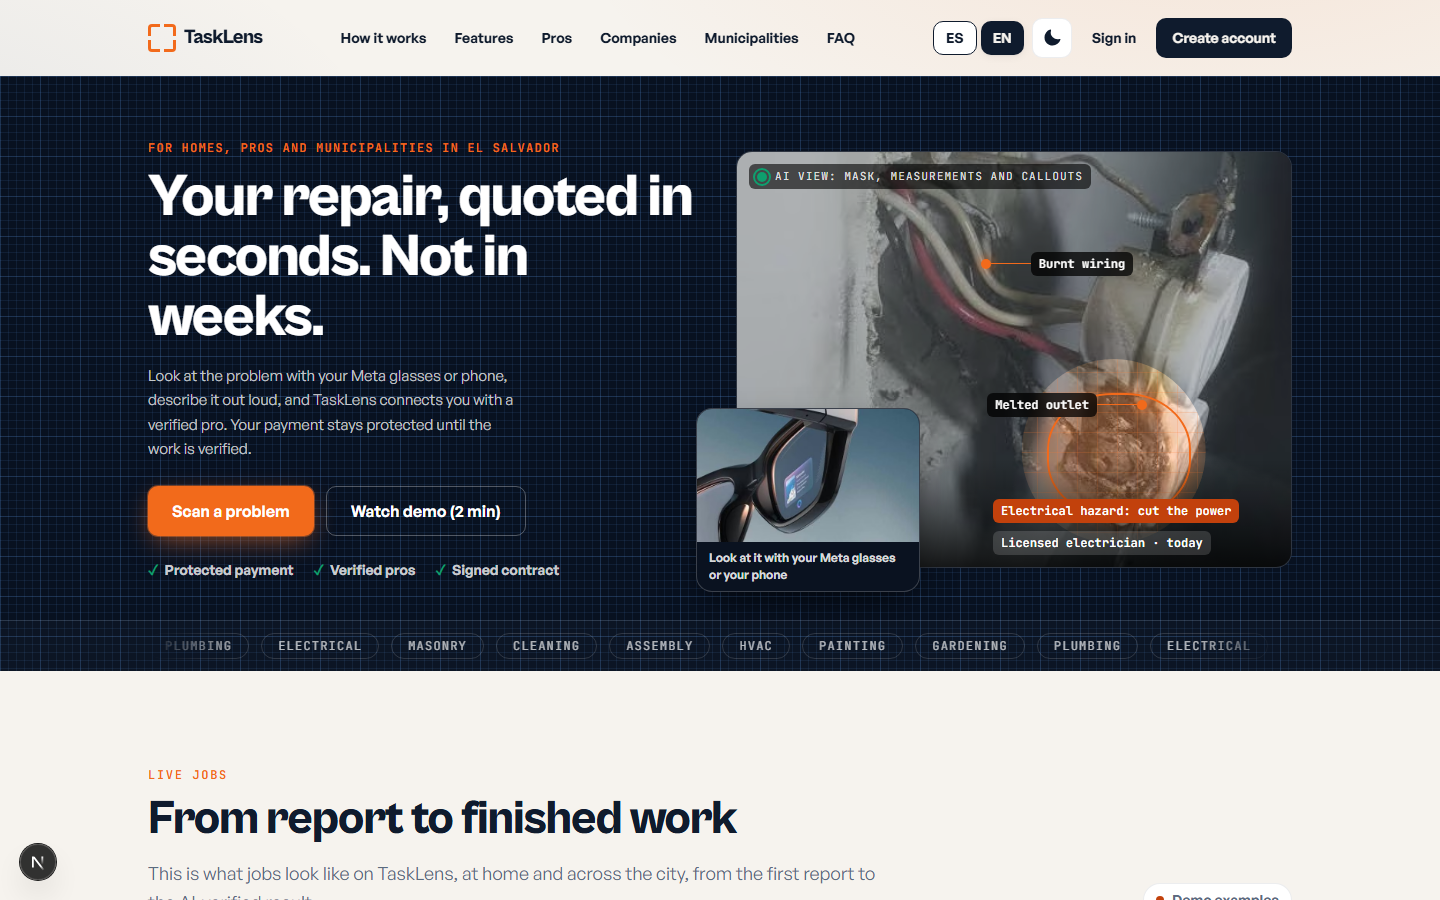
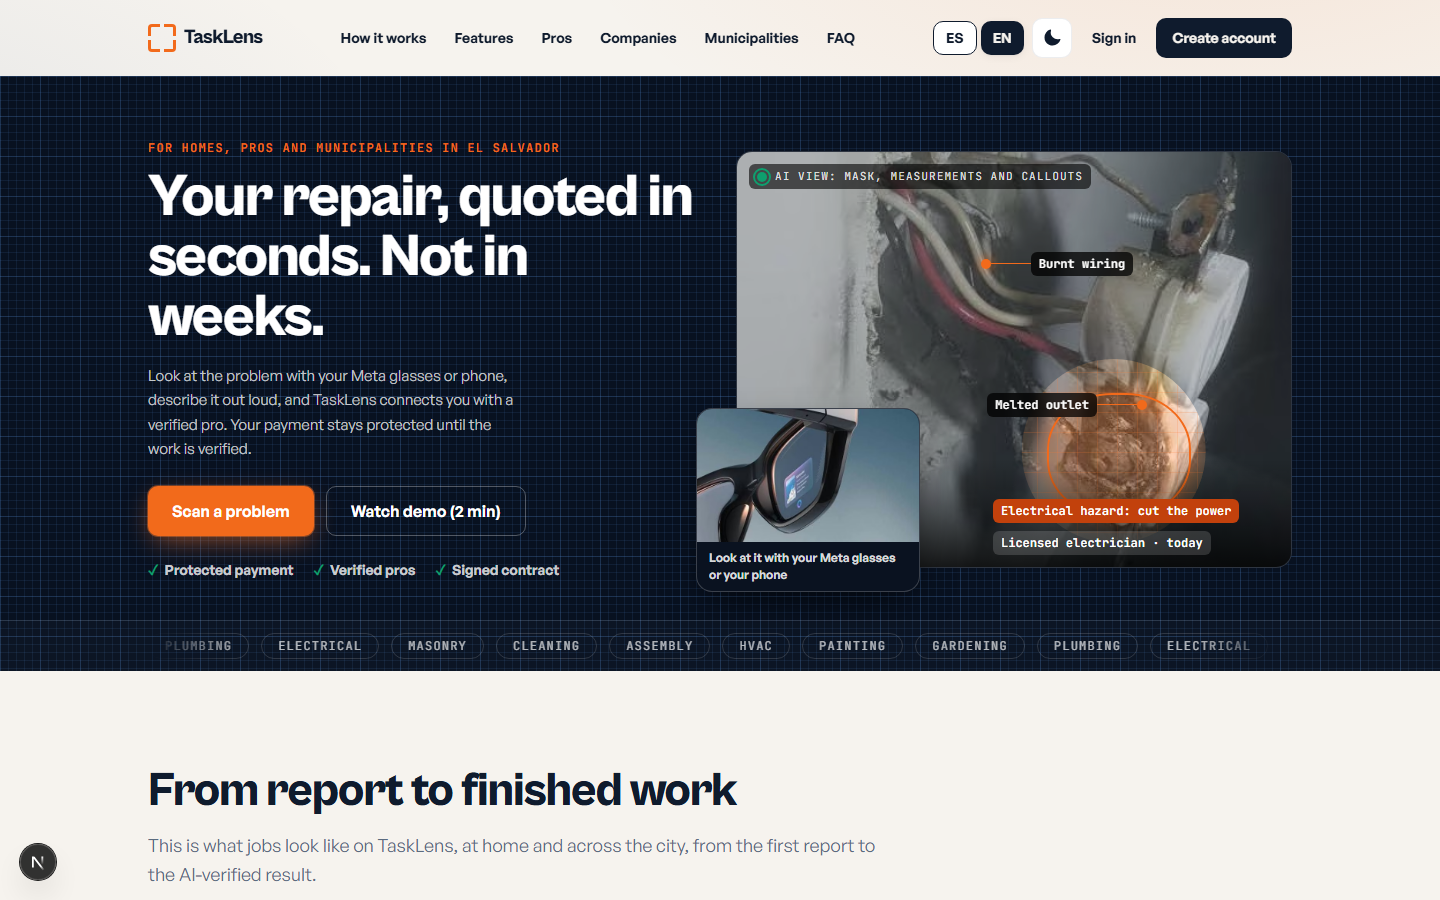
style(ui): declutter landing copy and rebuild race section as track diagram

Changed region(s): [[0.0938, 0.84, 0.5938, 1.0], [0.7812, 0.9956, 0.9062, 1.0]]

diff --git a/apps/web/components/landing/RaceSection.tsx b/apps/web/components/landing/RaceSection.tsx
@@ -83,31 +83,46 @@ function Timeline({ label, meta, steps, axis, barRef, tone, seal }: {
   tone: "muted" | "signal";
   seal?: React.ReactNode;
 }) {
-  const bar = tone === "signal" ? "bg-signal" : "bg-muted";
+  const bar = tone === "signal" ? "bg-gradient-to-r from-[#c24e08] via-[var(--signal)] to-[#ff8a3d]" : "bg-muted";
+  const isLens = tone === "signal";
   return (
-    <div className={`rounded-card border p-5 lg:p-6 ${tone === "signal" ? "border-signal bg-surface shadow-lifted" : "border-line bg-surface"}`}>
+    <div className={`relative overflow-hidden rounded-card border p-5 lg:p-6 ${isLens ? "border-signal bg-surface shadow-lifted" : "border-line bg-surface"}`}>
+      {isLens && <div aria-hidden="true" className="absolute inset-x-0 top-0 h-1 bg-gradient-to-r from-transparent via-[var(--signal)] to-transparent opacity-70" />}
       <div className="flex items-baseline justify-between gap-3">
-        <strong className="font-display text-lg font-bold">{label}</strong>
+        <strong className="flex items-center gap-2 font-display text-lg font-bold">
+          <span aria-hidden="true" className={`inline-block h-3 w-3 rounded-full ${isLens ? "bg-signal shadow-[0_0_12px_var(--signal)]" : "bg-muted"}`} />
+          {label}
+        </strong>
         <span className={`font-mono text-xs ${tone === "signal" ? "font-semibold text-signal" : "text-muted"}`}>{meta}</span>
       </div>
-      <div className="relative mt-5">
-        <div className="h-1.5 overflow-hidden rounded-full bg-ink/10">
-          <div ref={barRef} className={`h-full w-full origin-left ${bar}`} />
+      <div className="relative mt-6">
+        <div className="relative h-3 rounded-full bg-ink/10">
+          <div ref={barRef} className={`h-full w-full origin-left rounded-full ${bar}`} />
+          {isLens && <span aria-hidden="true" className="race-comet" />}
+          <span
+            aria-hidden="true"
+            className="absolute -top-1 bottom-[-4px] right-0 w-7 rounded-r-full"
+            style={{ backgroundImage: "repeating-conic-gradient(#0F1B2D 0% 25%, #fff 0% 50%)", backgroundSize: "10px 10px" }}
+          />
         </div>
         <ol className="relative mt-1 grid grid-cols-2 gap-x-4 gap-y-2 sm:flex sm:justify-between">
-          {steps.map((s) => (
+          {steps.map((s, i) => (
             <li key={s} className="flex max-w-[9rem] flex-col items-start gap-1.5 pt-3 text-left">
-              <span className={`h-2.5 w-2.5 rounded-full ring-4 ${tone === "signal" ? "bg-signal ring-signal/20" : "bg-muted ring-muted/15"}`} aria-hidden="true" />
+              <span
+                aria-hidden="true"
+                className={`absolute h-2.5 w-2.5 rounded-full ring-4 ${isLens ? "bg-white ring-[var(--signal)]" : "bg-muted ring-muted/15"}`}
+                style={{ left: `calc(${(i / Math.max(steps.length - 1, 1)) * 100}% - 5px)`, top: "0px" }}
+              />
               <span className="text-xs leading-snug text-muted">{s}</span>
             </li>
           ))}
         </ol>
         <div className="mt-3 flex justify-between font-mono text-[11px] uppercase tracking-widest text-muted" aria-hidden="true">
-          <span>{axis[0]}</span>
-          <span>{axis[1]}</span>
+          <span>▸ {axis[0]}</span>
+          <span>{axis[1]} ✓</span>
         </div>
       </div>
-      {seal && <div className="mt-4">{seal}</div>}
+      {seal && <div className="mt-4 flex justify-start">{seal}</div>}
     </div>
   );
 }

diff --git a/apps/web/components/landing/LiveJobs.tsx b/apps/web/components/landing/LiveJobs.tsx
@@ -106,7 +106,7 @@ function FeaturedDone({ lang }: { lang: Lang }) {
         <figcaption className="flex flex-col justify-center p-6 lg:p-8">
           <p className="inline-flex w-fit items-center gap-1.5 rounded-full bg-[var(--verified)]/10 px-3 py-1 text-xs font-bold text-[var(--verified)]">
             <CheckCircle weight="fill" aria-hidden="true" />
-            {c.demoLabel} · {STATUS_LABEL.done[lang]}
+            {STATUS_LABEL.done[lang]}
           </p>
           <p className="mt-3 font-display text-2xl font-extrabold leading-tight lg:text-3xl">{done.title[lang]}</p>
           <p className="mt-2 text-[15px] leading-relaxed text-muted">{c.lead}</p>
@@ -142,18 +142,13 @@ export default function LiveJobs({ lang }: { lang: Lang }) {
     <div>
       <div className="flex flex-col gap-6 lg:flex-row lg:items-end lg:justify-between">
         <div className="max-w-[46rem]">
-          <p className="font-mono text-xs font-semibold uppercase tracking-[0.14em] text-[var(--signal)]">{c.eyebrow}</p>
-          <h2 className="mt-3 font-display text-4xl font-extrabold leading-[1.05] tracking-tight lg:text-5xl">{c.title}</h2>
+          <h2 className="mt-0 font-display text-4xl font-extrabold leading-[1.05] tracking-tight lg:text-5xl">{c.title}</h2>
           <p className="mt-4 text-lg leading-relaxed text-muted">{c.lead}</p>
         </div>
-        <span className="inline-flex w-fit items-center gap-2 rounded-full border border-line bg-surface px-3 py-1.5 text-sm font-semibold text-muted">
-          <span className="h-2 w-2 rounded-full bg-[var(--warning)]" aria-hidden="true" />
-          {c.demoLabel}
-        </span>
       </div>
 
       <div className="mt-8 flex flex-wrap items-center gap-3">
-        <div className="inline-flex rounded-full border border-line bg-surface p-1" role="group" aria-label={c.eyebrow}>
+        <div className="inline-flex rounded-full border border-line bg-surface p-1" role="group" aria-label={c.title}>
           {(["all", "home", "municipal"] as const).map((s) => (
             <button
               key={s}

diff --git a/apps/web/app/globals.css b/apps/web/app/globals.css
@@ -159,6 +159,16 @@ textarea { width: 100%; border: 1px solid var(--line); border-radius: var(--radi
 .marquee-auto:hover .marquee-track { animation-play-state: paused; }
 @keyframes marqueeScroll { from { transform: translateX(0); } to { transform: translateX(-50%); } }
 
+/* Race comet: ambient glide along the TaskLens track (decorative pulse of speed). */
+.race-comet {
+  position: absolute; top: 50%; width: 26px; height: 26px; margin-top: -13px;
+  border-radius: 999px; pointer-events: none;
+  background: radial-gradient(circle, #ffe3c7 0%, var(--signal) 45%, transparent 70%);
+  filter: drop-shadow(0 0 8px rgba(242, 106, 27, 0.8));
+  animation: raceComet 3.4s ease-in-out infinite;
+}
+@keyframes raceComet { from { left: -3%; opacity: 0; } 10% { opacity: 1; } 90% { opacity: 1; } to { left: 97%; opacity: 0; } }
+
 /* Nav hover tint (color-mix so it works with CSS-var themes). */
 .hover-tint { transition: background-color 0.2s ease; }
 .hover-tint:hover { background: color-mix(in srgb, var(--ink) 6%, transparent); }
@@ -203,7 +213,7 @@ textarea { width: 100%; border: 1px solid var(--line); border-radius: var(--radi
   html { scroll-behavior: auto; }
   .fade-up, .mask-in, .stagger > *, .pop-in, .ticker > span, .toast,
   .anim-pop, .anim-fade-up, .anim-fade-in, .anim-sheet-up, .fx-sweep { animation: none !important; }
-  .pulse-dot, .scan-beam, .shutter::after, .live-dot::after, .fx-sheen::after,
+  .pulse-dot, .scan-beam, .shutter::after, .live-dot::after, .fx-sheen::after, .race-comet,
   .float-slow, .float-slower, .grad-pan, .skel, .marquee-track { animation: none !important; }
   .damagebox, .draw-check { animation-duration: 0.01s !important; }
 }

diff --git a/apps/web/app/(marketing)/page.tsx b/apps/web/app/(marketing)/page.tsx
@@ -99,7 +99,7 @@ export default async function LandingPage() {
         <Container>
           <Reveal className="py-16 sm:py-20 lg:py-24" >
             <div>
-              <DemoVideo title={t.demoT} soon={t.demoSoon} soonBody={t.demoSoonBody} config={t.demoVideo} dark />
+              <DemoVideo title="" soon={t.demoSoon} soonBody={t.demoSoonBody} config={t.demoVideo} dark />
             </div>
           </Reveal>
         </Container>
@@ -108,7 +108,7 @@ export default async function LandingPage() {
       <section className="bg-bg" aria-label={t.tabsT}>
         <Container>
           <Reveal className="py-16 sm:py-20 lg:py-24">
-            <RoleTabs title={t.tabsT} tabs={t.tabs} />
+            <RoleTabs title="" tabs={t.tabs} />
           </Reveal>
         </Container>
       </section>
@@ -140,7 +140,7 @@ export default async function LandingPage() {
         <Container>
           <Reveal className="py-16 sm:py-20 lg:py-24" >
             <div>
-              <TrustGrid title={t.trustT} items={t.trust} escrowTitle={t.escrowTitle} escrowSteps={t.escrowSteps} />
+              <TrustGrid title="" items={t.trust} escrowTitle={t.escrowTitle} escrowSteps={t.escrowSteps} />
             </div>
           </Reveal>
         </Container>

diff --git a/apps/web/components/landing/Theater.tsx b/apps/web/components/landing/Theater.tsx
@@ -84,9 +84,8 @@ export default function Theater({ title, sub, chapters }: { title: string; sub: 
       <div className="mt-4 grid gap-6 lg:grid-cols-2">
         <div ref={listRef} className="space-y-8">
           {chapters.map((c, i) => (
-            <article key={c.slug} data-chapter data-index={i} className={`rounded-card border p-4 transition-colors ${active === i ? "border-signal bg-surface shadow-lifted" : "border-line bg-surface/60"}`}>
-              <div className="font-mono text-[11px] uppercase tracking-widest text-muted">{String(i + 1).padStart(2, "0")}</div>
-              <Link href={`/funciones/${c.slug}`} className="mt-1 block font-display text-xl font-extrabold underline-offset-4 hover:underline">
+            <article key={c.slug} data-chapter data-index={i} className={`rounded-card border p-4 transition-colors sm:p-5 ${active === i ? "border-signal bg-surface shadow-lifted" : "border-line bg-surface/60"}`}>
+              <Link href={`/funciones/${c.slug}`} className="block font-display text-xl font-extrabold underline-offset-4 hover:underline">
                 {c.name} →
               </Link>
               <p className="text-sm text-muted">{c.promise}</p>

diff --git a/apps/web/components/landing/ProblemCards.tsx b/apps/web/components/landing/ProblemCards.tsx
@@ -54,10 +54,7 @@ export default function ProblemCards({ items }: { items: { icon: string; title: 
   return (
     <ol className="divide-y divide-line border-y border-line">
       {items.map((it, i) => (
-        <li key={it.title} className="grid gap-4 py-7 sm:grid-cols-[auto_1fr_auto] sm:items-center sm:gap-8">
-          <span className="font-mono text-sm font-semibold text-muted" aria-hidden="true">
-            {String(i + 1).padStart(2, "0")}
-          </span>
+        <li key={it.title} className="grid gap-4 py-7 sm:grid-cols-[1fr_auto] sm:items-center sm:gap-8">
           <div className="max-w-[44rem]">
             <h3 className="flex items-center gap-2 font-display text-2xl font-bold">
               <span className="text-signal" aria-hidden="true">{icons[i]}</span>

diff --git a/apps/web/components/landing/DemoVideo.tsx b/apps/web/components/landing/DemoVideo.tsx
@@ -20,7 +20,7 @@ export default function DemoVideo({ title, soon, soonBody, config, dark }: {
 
   return (
     <div>
-      <h2 className={`font-display text-3xl font-bold lg:text-[40px] lg:leading-[1.05] ${dark ? "text-white" : ""}`}>{title}</h2>
+      {title ? <h2 className={`font-display text-3xl font-bold lg:text-[40px] lg:leading-[1.05] ${dark ? "text-white" : ""}`}>{title}</h2> : null}
       <Viewfinder className="mt-4 border border-line bg-ink" animate={false}>
         <div className="relative aspect-video">
           {!hasVideo && (

diff --git a/apps/web/components/landing/TrustGrid.tsx b/apps/web/components/landing/TrustGrid.tsx
@@ -48,7 +48,7 @@ export default function TrustGrid({ title, items, escrowTitle, escrowSteps }: {
 
   return (
     <div>
-      <h2 className="font-display text-3xl font-bold lg:text-[40px] lg:leading-[1.05]">{title}</h2>
+      {title ? <h2 className="font-display text-3xl font-bold lg:text-[40px] lg:leading-[1.05]">{title}</h2> : null}
       <div className="mt-8 grid gap-4 sm:grid-cols-2">
         {items.map((it) => {
           const Ico = ICONS[it.icon] ?? ShieldCheck;

diff --git a/apps/web/components/landing/RoleTabs.tsx b/apps/web/components/landing/RoleTabs.tsx
@@ -11,7 +11,7 @@ export default function RoleTabs({ title, tabs }: {
 }) {
   return (
     <div>
-      <h2 className="font-display text-3xl font-bold lg:text-[40px] lg:leading-[1.05]">{title}</h2>
+      {title ? <h2 className="font-display text-3xl font-bold lg:text-[40px] lg:leading-[1.05]">{title}</h2> : null}
       <Tabs defaultSelectedKey={tabs[0]?.id} className="mt-8">
         <TabList aria-label={title}>
           {tabs.map((t) => (

diff --git a/DEMO_VIDEO_SCRIPT.md b/DEMO_VIDEO_SCRIPT.md
@@ -1,0 +1,84 @@
+# TaskLens — 3-minute demo video for the judges
+
+`DEMO_VIDEO.md` explains TaskLens to neighbours. This version is for **hackathon judges**: in
+3 minutes they must see a real problem, a product that really works end to end, deep use of
+Meta's models, and why it can scale from a house to a whole city.
+
+Voiceover is in English (judging is global); the app is shown in Spanish, because that is the
+real user, with English captions. About 410 spoken words, a calm pace.
+
+---
+
+## Before you record (do not skip)
+
+1. **Run it with real keys.** Today every AI result runs on mock data (`PROGRESS.md`: keyed
+   verification is still owner-blocked). Judges of a Meta AI hackathon will ask whether the
+   AI is real. At minimum set `MODEL_API_KEY` in `apps/web/.env.local` and remove `DEMO_MODE`,
+   then check that `/scan` → `/quote` returns a real Muse Spark result on your own photo.
+   Supabase + PayPal sandbox make the booking/payment part real too (`docs/keyed-verification.md` §2).
+2. **Never show a mock result as AI.** If a part still runs on mocks, either cut that shot or
+   put a small on-screen label: "Demo data".
+3. **Glasses:** only show "through the glasses" footage if it really came from the glasses
+   (the companion app runs on the Mock Device Kit). If you have Ray-Ban Meta glasses, record
+   the POV clip with them and the Meta AI app. If not, use the phone camera and say
+   "glasses or phone" — never "glasses" over phone footage.
+4. **Use your own photo for the live scan** (a real outlet, sink or wall at home). The
+   showcase photos are labelled "Ejemplos de demostración" and stay that way in the video.
+5. Reset the demo (`/admin` → Reset demo), log in as customer in one browser window and as pro
+   in another (or use two phones), PayPal **sandbox** buyer ready, notifications muted.
+6. Write down the real scan → quote time from your test run. Only that number goes on screen.
+
+---
+
+## The script
+
+| Time | On screen | Voiceover (English) | On-screen text |
+| --- | --- | --- | --- |
+| **0:00–0:12** Cold open | Close-up POV (glasses if real, else phone): a burnt outlet. Hand points. Spoken in Spanish: *"Se quemó el enchufe."* AI labels draw onto the photo (Lens effect). | *(Spanish line from the person, then)* "In El Salvador, this is where a repair starts… and where it usually gets stuck." | — |
+| **0:12–0:32** The problem | Landing hero, then the "La carrera" section: the "Hoy" track crawling through days. Quick cut to "Trabajos en vivo": reported street drains, fallen poles, broken windows. | "Today you call around, wait days for someone to come look, get a price only after the visit, and pay cash upfront with no guarantee. Cities have the same problem: reports pile up in one central office." | "Days or weeks. No price. No guarantee." |
+| **0:32–1:02** Look + speak → quote | `/scan`: live camera on your real photo, hold-to-talk waveform while you speak Spanish. Progress steps. `/quote`: damage highlighted, price range counts up, repair steps, materials, safety flag. Show a timer in the corner. | "TaskLens starts with what you see. Point your phone or Meta glasses, describe it in your own words. Muse Voice Transcribe turns speech into text, Muse Spark reads the photo and the words, and SAM 3.1 marks the damage. In seconds you get a price range, a repair plan, the materials, and a safety warning when it's dangerous. No visit needed just to know the price." | "Real Muse Spark call · [your measured time] s"; chips: Muse Spark · Voice Transcribe · SAM 3.1 |
+| **1:02–1:25** Book + contract + protected payment | `/book`: map, 3 verified pros with reasons, pick a slot. `/contracts/[jobId]`: bilingual contract + 5-line summary; both sign (two windows side by side). PayPal sandbox approves → "held". | "An agent finds three verified pros nearby and explains why. Nothing is booked until you confirm. Muse Spark drafts a bilingual contract from a fixed clause library, both sides sign, and the payment is authorized but held. The pro doesn't get paid yet." | "Booked only after you confirm" · "Money held until the work is verified" · small: "PayPal sandbox" |
+| **1:25–2:02** The pro, hands-free | Pro view `/pro/jobs/[id]`: big step buttons; pro asks the Copilot aloud ("¿Qué cable va primero?"), spoken answer appears; voice note logged; "listo" saves step evidence; after photo; **Verify** → checks turn green one by one. | "On the job, the pro works hands-free. The Copilot answers questions out loud using the job spec, voice notes go straight into the log, and every finished step saves a photo as evidence. When the pro is done, Muse Spark compares before and after against the original plan, step by step. Only a pass releases the money." | "Before / after verified step by step" |
+| **2:02–2:22** Customer sees everything | `/jobs/[id]` customer view: timeline filling live, before/after slider, payment "released", 5-star rating. `/passport`: the job saved with its warranty countdown. | "The customer watched all of it live. The payment is released, they rate the pro, and the repair goes into the Home Passport with its photos, contract and warranty. If it fails, they re-scan the same spot and open a warranty claim." | "Every job on record" |
+| **2:22–2:42** It scales | `/city`: map of reports, triage queue by severity, SLA timers, dispatch to a contractor. Quick cut to `/empresa` dispatch board. | "The same engine works for a whole city. Neighbours report a broken drain with one photo; the municipality gets an AI-triaged queue, dispatches a contractor, and closes it with verified proof. Contractor companies dispatch their teams the same way." | "Households · Pros · Companies · Municipalities" |
+| **2:42–2:54** Under the hood | Simple animated card: 5 Meta tools and what each does; three guardrail lines. | "Five Meta tools, each doing a real job. And the guardrails matter: the AI never books without your yes, never moves money without a passing verification, and every output is validated." | Muse Spark · Muse Voice Transcribe · Muse Image · SAM 3.1 · Ray-Ban Meta glasses |
+| **2:54–3:00** Close | End card on the dark blueprint background: logo, tagline, URL, QR to the live demo. | "Look at the problem. Fix it today. TaskLens." | "Mira el problema. Resuélvelo hoy." · your URL |
+
+Notes:
+- If Muse Image ran with your real key, add a 3-second insert at 0:58: quote → "Ver resultado
+  esperado" showing the generated "after" preview, with the "Muse Image" chip. Otherwise leave
+  it out (it is shown as `preview: null` without a key).
+- Keep the Spanish in the app; captions translate the important words for judges.
+- Say every number from your real test run only. No market statistics unless you have a source.
+
+---
+
+## Tools (all free on your Windows PC)
+
+| Step | Tool | How |
+| --- | --- | --- |
+| Screen recording | **OBS Studio** (obsproject.com) | One "Display capture" scene at 1920×1080, 60 fps, MP4. Record each segment as its own clip. Two browser windows side by side for customer + pro shots. |
+| Phone recording | **scrcpy** (Android, github.com/Genymobile/scrcpy) | Mirrors your Android phone to the PC with no lag; record the mirror in OBS, or `scrcpy --record scan.mp4`. On iPhone use the built-in screen recording. |
+| Glasses POV | **Ray-Ban Meta glasses + Meta AI app** | Record the cold-open clip with the glasses; export from the Meta AI app to your phone, then to the PC. Only if you have the glasses. |
+| Voiceover | **OBS** or Windows **Sound Recorder**, phone earbuds' mic is fine | Record the voiceover separately, in a quiet room, one row of the table at a time. |
+| Editing, zooms, captions | **Microsoft Clipchamp** (comes with Windows 11) | Drag clips onto the timeline in order, add the voiceover track, use "Zoom" on the price/verification moments, turn on **Auto captions** (English), export **1080p MP4**. |
+| Title cards, architecture card, end card | **Canva** (connected to this chat) | I can make the 3 cards in TaskLens colours (ink `#0A1220`, orange `#F26A1B`, green `#0E9F6E`) as 1920×1080 PNGs for you to drop into Clipchamp. |
+| Music | **YouTube Audio Library** | Pick a calm, "no attribution required" track; keep it at about −20 dB under the voice. |
+
+If you want a heavier editor later, **DaVinci Resolve** (free) gives more control, but
+Clipchamp is enough for this and much faster to learn tonight.
+
+---
+
+## Recording and editing checklist
+
+1. Record the real scan → quote first. If it fails with the real key, fix that before anything else.
+2. Record segments in script order, 2–3 takes each; reset the demo between full runs.
+3. Voiceover: read each row while watching its clip; leave 0.5 s of silence between rows.
+4. Edit: cut dead time (loading over ~1 s gets sped up 2×, and the caption says so), zoom on
+   the price, the "held" state, the green checks and "released".
+5. Watch once with sound off: the captions alone must tell the story.
+6. Export 1080p MP4 under 200 MB; upload to YouTube as **Unlisted**; put the link in
+   `NEXT_PUBLIC_DEMO_VIDEO_URL` and in the hackathon submission.
+7. Final check: total length ≤ 3:00, no mock result shown as AI, no faces or plates unblurred,
+   "Ejemplos de demostración" visible wherever showcase photos appear.

diff --git a/PROGRESS.md b/PROGRESS.md
@@ -155,6 +155,14 @@ Update it at the end of every work item (done-check, commit hash, next scope).
   calendar/pro). V9: typecheck + build + 100/96+4 green (new v8-states.test.ts);
   e2e-home 8/8 (jobs/passport 375+1440 light+dark) — empty state, error+Retry
   verified in pixels.
+- Landing declutter (Nov 2, owner ask): removed section eyebrows/titles flagged
+  as noise (LiveJobs eyebrow + demo chips, featured "demo · done" chip,
+  Theater 01–11 eyebrows, ProblemCards indices, demo/roles/trust headings —
+  those components now render headings only when non-empty); kept functional
+  step numbers (HowSteps, escrow flow, CitySection). Race rebuilt as a real
+  racetrack diagram: gradient fill, travelling comet, nodes on the track,
+  checkered finish, day/minute counters, verified stamp (reduced-motion safe).
+  V9: typecheck + 100 green; e2e-home 8/8 (home ES+EN 375+1440 light+dark).
 - V4 DONE (Nov 2): feature pages rewired to owner content/funciones.ts (full
   ES+EN per slug: problem/solution/CTA/3 FAQs/annotated hero photo or app
   screenshot) + AnnotatedPhoto (SAM mask + callouts + demo label) with one
